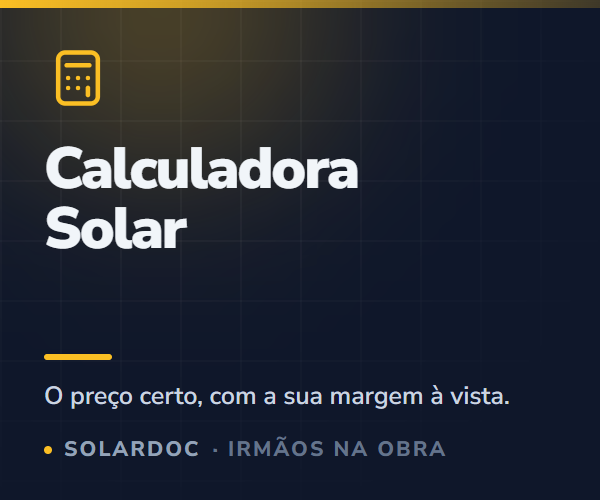
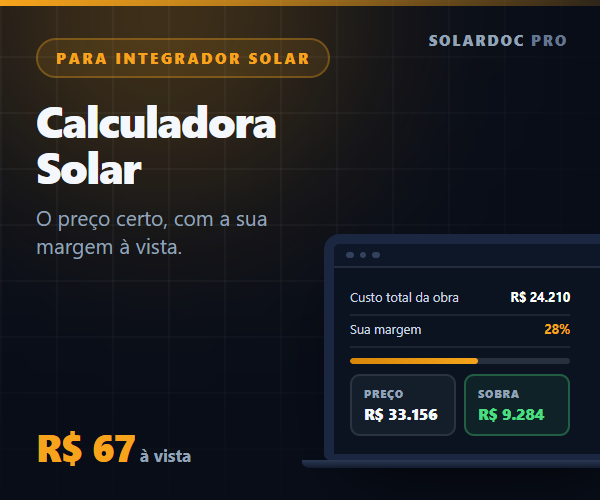
feat(lp): faixa "Funciona em" e as 3 capas refeitas na paleta da /kit
DUAS COISAS.

1) FUNCIONA EM — Android, iPhone e iPad, Windows, qualquer navegador. Entra
   logo abaixo do CTA do heroi, que e' onde mora a duvida "abre no meu
   aparelho?". Com as duas frases que sao verdade conferivel: e' web (abre no
   navegador, nada pra instalar) e e' PWA (da' pra fixar na tela inicial).

   Os simbolos sao DESENHADOS aqui, em SVG monocromatico. Nao usei o logo
   oficial da Apple, do Google nem da Microsoft: marca de terceiro em pagina de
   venda cria problema de uso de marca sem necessidade nenhuma, e uma silhueta
   reconhecivel responde a mesma pergunta.

2) AS 3 CAPAS 300x250, refeitas. As antigas estavam na paleta do APP (#0F172A,
   laranja #F26513, fonte Nunito) e as LPs agora falam a lingua da /kit
   (#080d18, ambar #f7a41c, fonte de sistema): a capa que a pessoa via no
   checkout batia diferente da pagina de onde ela veio. Agora tem o notebook
   com a tela do produto dentro, o preco em ambar e o mesmo brilho do heroi.

   Gerador em scripts/build-capas.js, do lado do das LPs.

TRES DEFEITOS CORRIGIDOS OLHANDO A IMAGEM PRONTA:
 · o notebook sangrava 24px e o corte caia no MEIO do numero ("R$ 24.2...");
   lia como imagem quebrada, nao como recorte de proposito. Sangra 14 e a tela
   reserva a faixa cortada;
 · "SOLARDOC PRO" passava por baixo do notebook no rodape. Subiu pro alto, do
   lado oposto ao selo;
 · "R$ 44.700" quebrava em "R$" / "44.700" dentro do cartao e deixava os dois
   cartoes com alturas diferentes.
[…]

diff --git a/dashboard/scripts/build-capas.js b/dashboard/scripts/build-capas.js
@@ -1,0 +1,162 @@
+/**
+ * AS 3 CAPAS DE PRODUTO, 300x250 (o tamanho do painel da Kiwify).
+ *
+ * As primeiras usavam a paleta do APP (#0F172A, laranja #F26513) e a fonte
+ * Nunito. As LPs agora falam a lingua da /kit — #080d18 de fundo e ambar
+ * #f7a41c — entao a capa que a pessoa ve' no checkout batia diferente da
+ * pagina de onde ela veio. Refeitas na paleta certa, com o notebook e a tela
+ * do produto dentro.
+ *
+ *   node scripts/build-capas.js
+ */
+const p = require('c:/Users/55349/Desktop/CLAUDE/node_modules/puppeteer-core');
+const fs = require('fs');
+const EDGE = 'C:/Program Files (x86)/Microsoft/Edge/Application/msedge.exe';
+const OUT = 'c:/Users/55349/Desktop/CLAUDE/dashboard/public/capas';
+
+const CAPAS = [
+  {
+    arquivo: 'calculadora-solar',
+    nome: 'Calculadora<br>Solar',
+    linha: 'O preço certo, com a sua margem à vista.',
+    preco: '67',
+    tela: `
+      <div class="l"><span>Custo total da obra</span><b>R$ 24.210</b></div>
+      <div class="l"><span>Sua margem</span><b class="am">28%</b></div>
+      <div class="barra"><i style="width:58%"></i></div>
+      <div class="cards">
+        <div class="c"><span>Preço</span><b>R$ 33.156</b></div>
+        <div class="c bom"><span>Sobra</span><b>R$ 9.284</b></div>
+      </div>`,
+  },
+  {
+    arquivo: 'inventario-empresarial',
+    nome: 'Inventário<br>Empresarial',
+    linha: 'Onde está cada ferramenta — e quanto vale.',
+    preco: '67',
+    tela: `
+      <div class="l"><span>Furadeira · Veículo 1</span><b>R$ 890</b></div>
+      <div class="l"><span>Andaime 1,5 m</span><b>R$ 1.180</b></div>
+      <div class="l rui"><span>Conector MC4 · mín. 40</span><b>restam 6</b></div>
+      <div class="cards">
+        <div class="c"><span>Patrimônio</span><b>R$ 82.615</b></div>
+        <div class="c bom"><span>Locais</span><b>4</b></div>
+      </div>`,
+  },
+  {
+    arquivo: 'dimensionamento-off-grid',
+    nome: 'Dimensionamento<br>Off-Grid',
+    linha: 'O kit isolado dimensionado na hora.',
+    preco: '97',
+    tela: `
+      <div class="l"><span>Consumo por dia</span><b>8,4 kWh</b></div>
+      <div class="l"><span>Banco de baterias</span><b>19,2 kWh</b></div>
+      <div class="barra"><i style="width:88%"></i></div>
+      <div class="cards">
+        <div class="c"><span>Kit + frete</span><b>R$ 44.700</b></div>
+        <div class="c bom"><span>Sem sol</span><b>2 dias</b></div>
+      </div>`,
+  },
+];
+
+const html = (c) => `<!doctype html><html><head><meta charset="utf-8"><style>
+  *{margin:0;padding:0;box-sizing:border-box}
+  body{width:300px;height:250px;overflow:hidden;position:relative;
+       background:#080d18;color:#f4f7fb;
+       font-family:'Segoe UI',system-ui,-apple-system,Roboto,Arial,sans-serif}
+  /* o mesmo brilho ambar do heroi da /kit */
+  .brilho{position:absolute;width:340px;height:250px;left:-90px;top:-120px;border-radius:50%;
+    background:radial-gradient(circle,rgba(247,164,28,.34),transparent 68%);filter:blur(38px)}
+  .grade{position:absolute;inset:0;
+    background-image:linear-gradient(rgba(255,255,255,.035) 1px,transparent 1px),
+                     linear-gradient(90deg,rgba(255,255,255,.035) 1px,transparent 1px);
+    background-size:28px 28px;
+    -webkit-mask-image:radial-gradient(ellipse at 26% 22%,#000 24%,transparent 76%)}
+  .topo{position:absolute;top:0;left:0;right:0;height:3px;
+    background:linear-gradient(90deg,#f7a41c,rgba(247,164,28,.16))}
+  .miolo{position:relative;height:100%;padding:19px 18px 15px;display:flex;flex-direction:column}
+  .selo{display:inline-block;align-self:flex-start;font-size:7.5px;font-weight:800;
+    letter-spacing:.17em;text-transform:uppercase;color:#f7a41c;
+    background:rgba(247,164,28,.1);border:1px solid rgba(247,164,28,.3);
+    padding:4px 9px;border-radius:99px;margin-bottom:10px}
+  h1{font-size:22px;line-height:1.05;letter-spacing:-.028em;font-weight:800;margin-bottom:7px;max-width:62%}
+  .sub{font-size:10.5px;line-height:1.35;color:#93a3b8;max-width:48%}
+  /* notebook, encostado na quina de baixo */
+  /* Sangra so' 14px, e a tela reserva 22px a' direita: com -24px o corte caia
+     no meio do numero ("R$ 24.2...") e lia como imagem quebrada, nao como
+     recorte de propósito. */
+  .note{position:absolute;right:-14px;bottom:16px;width:152px}
+  .tampa{background:#0b1320;border:5px solid #1b2740;border-bottom-width:3px;
+    border-radius:8px 8px 3px 3px;overflow:hidden;
+    box-shadow:0 18px 34px -16px rgba(0,0,0,.95)}
+  .barraTopo{display:flex;align-items:center;gap:3px;padding:4px 6px;
+    background:#0e1728;border-bottom:1px solid rgba(148,163,184,.16)}
+  .barraTopo i{width:3.5px;height:3.5px;border-radius:50%;background:#33415c;display:block}
+  .tela{padding:7px 24px 9px 8px;font-size:6.4px;line-height:1.3}
+  .l{display:flex;justify-content:space-between;gap:5px;padding:3.5px 0;
+    border-bottom:1px solid rgba(148,163,184,.12);color:#cfd9e6}
+  .l b{color:#fff;font-weight:700;white-space:nowrap}
+  .l b.am{color:#f7a41c}
+  .l.rui b{color:#ff9d8f}
+  .barra{height:3px;border-radius:99px;background:rgba(148,163,184,.2);margin:5px 0;overflow:hidden}
+  .barra i{display:block;height:100%;border-radius:99px;background:linear-gradient(90deg,#d9860a,#f7a41c)}
+  .cards{display:grid;grid-template-columns:1fr 1fr;gap:4px;margin-top:5px}
+  .c{background:rgba(148,163,184,.07);border:1px solid rgba(148,163,184,.16);
+    border-radius:5px;padding:5px 6px}
+  .c span{display:block;font-size:5.4px;font-weight:800;letter-spacing:.08em;
+    text-transform:uppercase;color:#93a3b8;margin-bottom:1.5px}
+  /* nowrap: "R$ 44.700" quebrava em "R$" / "44.700" e o cartao virava duas
+     alturas diferentes ao lado do vizinho. */
+  .c b{font-size:8px;font-weight:800;letter-spacing:-.02em;white-space:nowrap}
+  .c.bom{border-color:rgba(74,222,128,.32);background:rgba(74,222,128,.07)}
+  .c.bom b{color:#4ade80}
+  .base{height:4px;margin:0 -7%;background:linear-gradient(180deg,#2a3852,#131c2e);
+    border-radius:0 0 6px 6px}
+  /* rodape */
+  /* A marca saiu do rodape: la' ela passava por baixo do notebook. Foi pro
+     alto, do lado oposto ao selo, onde nao disputa espaco com nada. */
+  .marcaTopo{position:absolute;top:15px;right:16px;z-index:3;
+    font-size:7.5px;font-weight:800;letter-spacing:.12em;text-transform:uppercase;color:#64768f}
+  .marcaTopo b{color:#93a3b8}
+  .pe{margin-top:auto;position:relative;z-index:2}
+  .preco{font-size:19px;font-weight:800;color:#f7a41c;letter-spacing:-.03em;line-height:1}
+  .preco small{font-size:.45em;font-weight:700;color:#93a3b8;letter-spacing:0}
+  .marca{font-size:8px;font-weight:800;letter-spacing:.11em;text-transform:uppercase;color:#64768f}
+  .marca b{color:#93a3b8}
+</style></head><body>
+  <div class="brilho"></div><div class="grade"></div><div class="topo"></div>
+  <div class="note">
+    <div class="tampa">
+      <div class="barraTopo"><i></i><i></i><i></i></div>
+      <div class="tela">${c.tela}</div>
+    </div>
+    <div class="base"></div>
+  </div>
+  <span class="marcaTopo"><b>SolarDoc</b> Pro</span>
+  <div class="miolo">
+    <span class="selo">Para integrador solar</span>
+    <h1>${c.nome}</h1>
+    <p class="sub">${c.linha}</p>
+    <div class="pe">
+      <span class="preco">R$ ${c.preco}<small> à vista</small></span>
+    </div>
+  </div>
+</body></html>`;
+
+(async () => {
+  fs.mkdirSync(OUT, { recursive: true });
+  const b = await p.launch({ executablePath: EDGE, headless: 'new', args: ['--no-sandbox'] });
+  for (const c of CAPAS) {
+    for (const [suf, esc] of [['', 1], ['@2x', 2]]) {
+      const pg = await b.newPage();
+      await pg.setViewport({ width: 300, height: 250, deviceScaleFactor: esc });
+      await pg.setContent(html(c), { waitUntil: 'load' });
+      await new Promise((r) => setTimeout(r, 350));
+      const caminho = `${OUT}/${c.arquivo}${suf}.png`;
+      await pg.screenshot({ path: caminho, clip: { x: 0, y: 0, width: 300, height: 250 } });
+      console.log(`${c.arquivo}${suf}.png  ${300 * esc}x${250 * esc}  ${(fs.statSync(caminho).size / 1024).toFixed(1)} KB`);
+      await pg.close();
+    }
+  }
+  await b.close();
+})();

diff --git a/dashboard/public/dimensionamento/index.html b/dashboard/public/dimensionamento/index.html
@@ -263,6 +263,32 @@
   @media (max-width: 900px) { .fone { display: none; } }
   @media (prefers-reduced-motion: reduce) { .rolagem { animation: none !important; } }
 
+
+  /* -- FUNCIONA EM: os sistemas ------------------------
+     Responde "abre no meu aparelho?" antes de a pessoa perguntar. Silhuetas
+     DESENHADAS, nao logo oficial de terceiro: marca alheia em pagina de venda
+     cria problema de uso de marca sem necessidade, e uma silhueta reconhecivel
+     ja' responde a pergunta. */
+  .rodaEm { margin-top: 22px; }
+  .rodaEmTitulo {
+    display: block; font-size: 10px; font-weight: 800; letter-spacing: .18em;
+    text-transform: uppercase; color: #64768f; margin-bottom: 10px;
+  }
+  .rodaEmLista { list-style: none; display: flex; flex-wrap: wrap; align-items: center; gap: 9px; margin: 0 0 10px; }
+  .rodaEmLista li {
+    display: inline-flex; align-items: center; gap: 7px;
+    padding: 7px 12px 7px 10px; border-radius: 10px;
+    border: 1px solid var(--line); background: rgba(148,163,184,.06);
+    font-size: 12.5px; font-weight: 600; color: #cfd9e6;
+  }
+  .rodaEmLista svg { flex: none; color: var(--muted); }
+  .rodaEmNota { font-size: 12.5px; color: var(--muted); margin: 0; }
+  .rodaEmNota b { color: var(--text); font-weight: 700; }
+  @media (max-width: 420px) {
+    .rodaEmLista { gap: 7px; }
+    .rodaEmLista li { padding: 6px 10px 6px 8px; font-size: 11.5px; }
+  }
+
   .faixa { border-top: 1px solid var(--line); border-bottom: 1px solid var(--line); background: var(--bg2); }
   .faixaGrid { display: grid; grid-template-columns: repeat(5, 1fr); gap: 6px; padding: 26px 0; text-align: center; }
   .faixaGrid b { display: block; font-size: clamp(21px, 3vw, 28px); color: var(--amber); font-weight: 800; letter-spacing: -.02em; }
@@ -657,6 +683,20 @@
       </ul>
       <a href="https://pay.kiwify.com.br/Je9pKBV" class="cta" data-cta="hero">Quero a ferramenta por R$ 97 →</a>
       <span class="ctaNota">Dimensionar é de graça · os R$ 97 voltam como abatimento se pedir o kit</span>
+
+      <div class="rodaEm">
+        <span class="rodaEmTitulo">Funciona em</span>
+        <ul class="rodaEmLista">
+          <li><svg width="15" height="15" viewBox="0 0 24 24" fill="currentColor" aria-hidden="true"><path d="M6.4 10.2h11.2v6.6a1.6 1.6 0 0 1-1.6 1.6H8a1.6 1.6 0 0 1-1.6-1.6v-6.6Z"/><rect x="3.1" y="10.2" width="2.4" height="6" rx="1.2"/><rect x="18.5" y="10.2" width="2.4" height="6" rx="1.2"/><rect x="8.9" y="18.4" width="2.3" height="4.2" rx="1.15"/><rect x="12.8" y="18.4" width="2.3" height="4.2" rx="1.15"/><path d="M6.6 9.2a5.4 5.4 0 0 1 10.8 0H6.6Z"/><path d="M8.2 4.1 7.1 2.3M15.8 4.1l1.1-1.8" stroke="currentColor" stroke-width="1.1" stroke-linecap="round" fill="none"/><circle cx="9.6" cy="6.6" r=".72" fill="#0a0f1a"/><circle cx="14.4" cy="6.6" r=".72" fill="#0a0f1a"/></svg>Android</li>
+          <li><svg width="15" height="15" viewBox="0 0 24 24" fill="currentColor" aria-hidden="true"><path d="M16.9 12.6c0-2.4 2-3.6 2.1-3.7-1.1-1.7-2.9-1.9-3.5-1.9-1.5-.15-2.9.88-3.65.88-.76 0-1.92-.86-3.16-.84-1.63.03-3.13.95-3.96 2.4-1.69 2.93-.43 7.27 1.21 9.65.8 1.16 1.76 2.47 3.02 2.42 1.21-.05 1.67-.78 3.14-.78 1.46 0 1.88.78 3.16.76 1.31-.02 2.14-1.19 2.94-2.36.92-1.35 1.3-2.65 1.32-2.72-.03-.01-2.54-.98-2.57-3.86Z"/><path d="M14.5 5.6c.67-.81 1.12-1.94.99-3.06-.96.04-2.12.64-2.81 1.45-.62.72-1.16 1.87-1.02 2.97 1.07.08 2.17-.55 2.84-1.36Z"/></svg>iPhone e iPad</li>
+          <li><svg width="15" height="15" viewBox="0 0 24 24" fill="currentColor" aria-hidden="true"><path d="M3 5.6l7.6-1.05v7.1H3V5.6Z"/><path d="M11.6 4.4 21 3.1v8.55h-9.4V4.4Z"/><path d="M3 12.65h7.6v7.1L3 18.7v-6.05Z"/><path d="M11.6 12.65H21v8.55l-9.4-1.3v-7.25Z"/></svg>Windows</li>
+          <li><svg width="15" height="15" viewBox="0 0 24 24" fill="currentColor" aria-hidden="true"><circle cx="12" cy="12" r="9.1" fill="none" stroke="currentColor" stroke-width="1.7"/><ellipse cx="12" cy="12" rx="4" ry="9.1" fill="none" stroke="currentColor" stroke-width="1.5"/><path d="M3.3 9.2h17.4M3.3 14.8h17.4" fill="none" stroke="currentColor" stroke-width="1.5"/></svg>Qualquer navegador</li>
+        </ul>
+        <p class="rodaEmNota">
+          Abre no navegador &mdash; <b>nada pra instalar</b>. Se quiser, d&aacute; pra fixar na tela
+          inicial do celular e usar como aplicativo.
+        </p>
+      </div>
     </div>
 
     <div class="heroArte aparelhos">

diff --git a/dashboard/public/calculadora/index.html b/dashboard/public/calculadora/index.html
@@ -263,6 +263,32 @@
   @media (max-width: 900px) { .fone { display: none; } }
   @media (prefers-reduced-motion: reduce) { .rolagem { animation: none !important; } }
 
+
+  /* -- FUNCIONA EM: os sistemas ------------------------
+     Responde "abre no meu aparelho?" antes de a pessoa perguntar. Silhuetas
+     DESENHADAS, nao logo oficial de terceiro: marca alheia em pagina de venda
+     cria problema de uso de marca sem necessidade, e uma silhueta reconhecivel
+     ja' responde a pergunta. */
+  .rodaEm { margin-top: 22px; }
+  .rodaEmTitulo {
+    display: block; font-size: 10px; font-weight: 800; letter-spacing: .18em;
+    text-transform: uppercase; color: #64768f; margin-bottom: 10px;
+  }
+  .rodaEmLista { list-style: none; display: flex; flex-wrap: wrap; align-items: center; gap: 9px; margin: 0 0 10px; }
+  .rodaEmLista li {
+    display: inline-flex; align-items: center; gap: 7px;
+    padding: 7px 12px 7px 10px; border-radius: 10px;
+    border: 1px solid var(--line); background: rgba(148,163,184,.06);
+    font-size: 12.5px; font-weight: 600; color: #cfd9e6;
+  }
+  .rodaEmLista svg { flex: none; color: var(--muted); }
+  .rodaEmNota { font-size: 12.5px; color: var(--muted); margin: 0; }
+  .rodaEmNota b { color: var(--text); font-weight: 700; }
+  @media (max-width: 420px) {
+    .rodaEmLista { gap: 7px; }
+    .rodaEmLista li { padding: 6px 10px 6px 8px; font-size: 11.5px; }
+  }
+
   .faixa { border-top: 1px solid var(--line); border-bottom: 1px solid var(--line); background: var(--bg2); }
   .faixaGrid { display: grid; grid-template-columns: repeat(5, 1fr); gap: 6px; padding: 26px 0; text-align: center; }
   .faixaGrid b { display: block; font-size: clamp(21px, 3vw, 28px); color: var(--amber); font-weight: 800; letter-spacing: -.02em; }
@@ -657,6 +683,20 @@
       </ul>
       <a href="https://pay.kiwify.com.br/duOCDd0" class="cta" data-cta="hero">Quero a calculadora por R$ 67 →</a>
       <span class="ctaNota">Pagamento único · Pix ou cartão · acesso em minutos</span>
+
+      <div class="rodaEm">
+        <span class="rodaEmTitulo">Funciona em</span>
+        <ul class="rodaEmLista">
+          <li><svg width="15" height="15" viewBox="0 0 24 24" fill="currentColor" aria-hidden="true"><path d="M6.4 10.2h11.2v6.6a1.6 1.6 0 0 1-1.6 1.6H8a1.6 1.6 0 0 1-1.6-1.6v-6.6Z"/><rect x="3.1" y="10.2" width="2.4" height="6" rx="1.2"/><rect x="18.5" y="10.2" width="2.4" height="6" rx="1.2"/><rect x="8.9" y="18.4" width="2.3" height="4.2" rx="1.15"/><rect x="12.8" y="18.4" width="2.3" height="4.2" rx="1.15"/><path d="M6.6 9.2a5.4 5.4 0 0 1 10.8 0H6.6Z"/><path d="M8.2 4.1 7.1 2.3M15.8 4.1l1.1-1.8" stroke="currentColor" stroke-width="1.1" stroke-linecap="round" fill="none"/><circle cx="9.6" cy="6.6" r=".72" fill="#0a0f1a"/><circle cx="14.4" cy="6.6" r=".72" fill="#0a0f1a"/></svg>Android</li>
+          <li><svg width="15" height="15" viewBox="0 0 24 24" fill="currentColor" aria-hidden="true"><path d="M16.9 12.6c0-2.4 2-3.6 2.1-3.7-1.1-1.7-2.9-1.9-3.5-1.9-1.5-.15-2.9.88-3.65.88-.76 0-1.92-.86-3.16-.84-1.63.03-3.13.95-3.96 2.4-1.69 2.93-.43 7.27 1.21 9.65.8 1.16 1.76 2.47 3.02 2.42 1.21-.05 1.67-.78 3.14-.78 1.46 0 1.88.78 3.16.76 1.31-.02 2.14-1.19 2.94-2.36.92-1.35 1.3-2.65 1.32-2.72-.03-.01-2.54-.98-2.57-3.86Z"/><path d="M14.5 5.6c.67-.81 1.12-1.94.99-3.06-.96.04-2.12.64-2.81 1.45-.62.72-1.16 1.87-1.02 2.97 1.07.08 2.17-.55 2.84-1.36Z"/></svg>iPhone e iPad</li>
+          <li><svg width="15" height="15" viewBox="0 0 24 24" fill="currentColor" aria-hidden="true"><path d="M3 5.6l7.6-1.05v7.1H3V5.6Z"/><path d="M11.6 4.4 21 3.1v8.55h-9.4V4.4Z"/><path d="M3 12.65h7.6v7.1L3 18.7v-6.05Z"/><path d="M11.6 12.65H21v8.55l-9.4-1.3v-7.25Z"/></svg>Windows</li>
+          <li><svg width="15" height="15" viewBox="0 0 24 24" fill="currentColor" aria-hidden="true"><circle cx="12" cy="12" r="9.1" fill="none" stroke="currentColor" stroke-width="1.7"/><ellipse cx="12" cy="12" rx="4" ry="9.1" fill="none" stroke="currentColor" stroke-width="1.5"/><path d="M3.3 9.2h17.4M3.3 14.8h17.4" fill="none" stroke="currentColor" stroke-width="1.5"/></svg>Qualquer navegador</li>
+        </ul>
+        <p class="rodaEmNota">
+          Abre no navegador &mdash; <b>nada pra instalar</b>. Se quiser, d&aacute; pra fixar na tela
+          inicial do celular e usar como aplicativo.
+        </p>
+      </div>
     </div>
 
     <div class="heroArte aparelhos">

diff --git a/dashboard/public/inventario-empresarial/index.html b/dashboard/public/inventario-empresarial/index.html
@@ -263,6 +263,32 @@
   @media (max-width: 900px) { .fone { display: none; } }
   @media (prefers-reduced-motion: reduce) { .rolagem { animation: none !important; } }
 
+
+  /* -- FUNCIONA EM: os sistemas ------------------------
+     Responde "abre no meu aparelho?" antes de a pessoa perguntar. Silhuetas
+     DESENHADAS, nao logo oficial de terceiro: marca alheia em pagina de venda
+     cria problema de uso de marca sem necessidade, e uma silhueta reconhecivel
+     ja' responde a pergunta. */
+  .rodaEm { margin-top: 22px; }
+  .rodaEmTitulo {
+    display: block; font-size: 10px; font-weight: 800; letter-spacing: .18em;
+    text-transform: uppercase; color: #64768f; margin-bottom: 10px;
+  }
+  .rodaEmLista { list-style: none; display: flex; flex-wrap: wrap; align-items: center; gap: 9px; margin: 0 0 10px; }
+  .rodaEmLista li {
+    display: inline-flex; align-items: center; gap: 7px;
+    padding: 7px 12px 7px 10px; border-radius: 10px;
+    border: 1px solid var(--line); background: rgba(148,163,184,.06);
+    font-size: 12.5px; font-weight: 600; color: #cfd9e6;
+  }
+  .rodaEmLista svg { flex: none; color: var(--muted); }
+  .rodaEmNota { font-size: 12.5px; color: var(--muted); margin: 0; }
+  .rodaEmNota b { color: var(--text); font-weight: 700; }
+  @media (max-width: 420px) {
+    .rodaEmLista { gap: 7px; }
+    .rodaEmLista li { padding: 6px 10px 6px 8px; font-size: 11.5px; }
+  }
+
   .faixa { border-top: 1px solid var(--line); border-bottom: 1px solid var(--line); background: var(--bg2); }
   .faixaGrid { display: grid; grid-template-columns: repeat(5, 1fr); gap: 6px; padding: 26px 0; text-align: center; }
   .faixaGrid b { display: block; font-size: clamp(21px, 3vw, 28px); color: var(--amber); font-weight: 800; letter-spacing: -.02em; }
@@ -657,6 +683,20 @@
       </ul>
       <a href="https://pay.kiwify.com.br/ABSMgCu" class="cta" data-cta="hero">Quero o inventário por R$ 67 →</a>
       <span class="ctaNota">Pagamento único · Pix ou cartão · acesso em minutos</span>
+
+      <div class="rodaEm">
+        <span class="rodaEmTitulo">Funciona em</span>
+        <ul class="rodaEmLista">
+          <li><svg width="15" height="15" viewBox="0 0 24 24" fill="currentColor" aria-hidden="true"><path d="M6.4 10.2h11.2v6.6a1.6 1.6 0 0 1-1.6 1.6H8a1.6 1.6 0 0 1-1.6-1.6v-6.6Z"/><rect x="3.1" y="10.2" width="2.4" height="6" rx="1.2"/><rect x="18.5" y="10.2" width="2.4" height="6" rx="1.2"/><rect x="8.9" y="18.4" width="2.3" height="4.2" rx="1.15"/><rect x="12.8" y="18.4" width="2.3" height="4.2" rx="1.15"/><path d="M6.6 9.2a5.4 5.4 0 0 1 10.8 0H6.6Z"/><path d="M8.2 4.1 7.1 2.3M15.8 4.1l1.1-1.8" stroke="currentColor" stroke-width="1.1" stroke-linecap="round" fill="none"/><circle cx="9.6" cy="6.6" r=".72" fill="#0a0f1a"/><circle cx="14.4" cy="6.6" r=".72" fill="#0a0f1a"/></svg>Android</li>
+          <li><svg width="15" height="15" viewBox="0 0 24 24" fill="currentColor" aria-hidden="true"><path d="M16.9 12.6c0-2.4 2-3.6 2.1-3.7-1.1-1.7-2.9-1.9-3.5-1.9-1.5-.15-2.9.88-3.65.88-.76 0-1.92-.86-3.16-.84-1.63.03-3.13.95-3.96 2.4-1.69 2.93-.43 7.27 1.21 9.65.8 1.16 1.76 2.47 3.02 2.42 1.21-.05 1.67-.78 3.14-.78 1.46 0 1.88.78 3.16.76 1.31-.02 2.14-1.19 2.94-2.36.92-1.35 1.3-2.65 1.32-2.72-.03-.01-2.54-.98-2.57-3.86Z"/><path d="M14.5 5.6c.67-.81 1.12-1.94.99-3.06-.96.04-2.12.64-2.81 1.45-.62.72-1.16 1.87-1.02 2.97 1.07.08 2.17-.55 2.84-1.36Z"/></svg>iPhone e iPad</li>
+          <li><svg width="15" height="15" viewBox="0 0 24 24" fill="currentColor" aria-hidden="true"><path d="M3 5.6l7.6-1.05v7.1H3V5.6Z"/><path d="M11.6 4.4 21 3.1v8.55h-9.4V4.4Z"/><path d="M3 12.65h7.6v7.1L3 18.7v-6.05Z"/><path d="M11.6 12.65H21v8.55l-9.4-1.3v-7.25Z"/></svg>Windows</li>
+          <li><svg width="15" height="15" viewBox="0 0 24 24" fill="currentColor" aria-hidden="true"><circle cx="12" cy="12" r="9.1" fill="none" stroke="currentColor" stroke-width="1.7"/><ellipse cx="12" cy="12" rx="4" ry="9.1" fill="none" stroke="currentColor" stroke-width="1.5"/><path d="M3.3 9.2h17.4M3.3 14.8h17.4" fill="none" stroke="currentColor" stroke-width="1.5"/></svg>Qualquer navegador</li>
+        </ul>
+        <p class="rodaEmNota">
+          Abre no navegador &mdash; <b>nada pra instalar</b>. Se quiser, d&aacute; pra fixar na tela
+          inicial do celular e usar como aplicativo.
+        </p>
+      </div>
     </div>
 
     <div class="heroArte aparelhos">

diff --git a/dashboard/scripts/build-lps.js b/dashboard/scripts/build-lps.js
@@ -568,6 +568,32 @@ const CSS = `
   @media (max-width: 900px) { .fone { display: none; } }
   @media (prefers-reduced-motion: reduce) { .rolagem { animation: none !important; } }
 
+
+  /* -- FUNCIONA EM: os sistemas ------------------------
+     Responde "abre no meu aparelho?" antes de a pessoa perguntar. Silhuetas
+     DESENHADAS, nao logo oficial de terceiro: marca alheia em pagina de venda
+     cria problema de uso de marca sem necessidade, e uma silhueta reconhecivel
+     ja' responde a pergunta. */
+  .rodaEm { margin-top: 22px; }
+  .rodaEmTitulo {
+    display: block; font-size: 10px; font-weight: 800; letter-spacing: .18em;
+    text-transform: uppercase; color: #64768f; margin-bottom: 10px;
+  }
+  .rodaEmLista { list-style: none; display: flex; flex-wrap: wrap; align-items: center; gap: 9px; margin: 0 0 10px; }
+  .rodaEmLista li {
+    display: inline-flex; align-items: center; gap: 7px;
+    padding: 7px 12px 7px 10px; border-radius: 10px;
+    border: 1px solid var(--line); background: rgba(148,163,184,.06);
+    font-size: 12.5px; font-weight: 600; color: #cfd9e6;
+  }
+  .rodaEmLista svg { flex: none; color: var(--muted); }
+  .rodaEmNota { font-size: 12.5px; color: var(--muted); margin: 0; }
+  .rodaEmNota b { color: var(--text); font-weight: 700; }
+  @media (max-width: 420px) {
+    .rodaEmLista { gap: 7px; }
+    .rodaEmLista li { padding: 6px 10px 6px 8px; font-size: 11.5px; }
+  }
+
   .faixa { border-top: 1px solid var(--line); border-bottom: 1px solid var(--line); background: var(--bg2); }
   .faixaGrid { display: grid; grid-template-columns: repeat(5, 1fr); gap: 6px; padding: 26px 0; text-align: center; }
   .faixaGrid b { display: block; font-size: clamp(21px, 3vw, 28px); color: var(--amber); font-weight: 800; letter-spacing: -.02em; }
@@ -1006,6 +1032,20 @@ ${d.bullets.map((b) => `        <li>${esc(b)}</li>`).join('\n')}
       </ul>
       ${cta('hero')}
       <span class="ctaNota">${esc(d.ctaNota)}</span>
+
+      <div class="rodaEm">
+        <span class="rodaEmTitulo">Funciona em</span>
+        <ul class="rodaEmLista">
+          <li><svg width="15" height="15" viewBox="0 0 24 24" fill="currentColor" aria-hidden="true"><path d="M6.4 10.2h11.2v6.6a1.6 1.6 0 0 1-1.6 1.6H8a1.6 1.6 0 0 1-1.6-1.6v-6.6Z"/><rect x="3.1" y="10.2" width="2.4" height="6" rx="1.2"/><rect x="18.5" y="10.2" width="2.4" height="6" rx="1.2"/><rect x="8.9" y="18.4" width="2.3" height="4.2" rx="1.15"/><rect x="12.8" y="18.4" width="2.3" height="4.2" rx="1.15"/><path d="M6.6 9.2a5.4 5.4 0 0 1 10.8 0H6.6Z"/><path d="M8.2 4.1 7.1 2.3M15.8 4.1l1.1-1.8" stroke="currentColor" stroke-width="1.1" stroke-linecap="round" fill="none"/><circle cx="9.6" cy="6.6" r=".72" fill="#0a0f1a"/><circle cx="14.4" cy="6.6" r=".72" fill="#0a0f1a"/></svg>Android</li>
+          <li><svg width="15" height="15" viewBox="0 0 24 24" fill="currentColor" aria-hidden="true"><path d="M16.9 12.6c0-2.4 2-3.6 2.1-3.7-1.1-1.7-2.9-1.9-3.5-1.9-1.5-.15-2.9.88-3.65.88-.76 0-1.92-.86-3.16-.84-1.63.03-3.13.95-3.96 2.4-1.69 2.93-.43 7.27 1.21 9.65.8 1.16 1.76 2.47 3.02 2.42 1.21-.05 1.67-.78 3.14-.78 1.46 0 1.88.78 3.16.76 1.31-.02 2.14-1.19 2.94-2.36.92-1.35 1.3-2.65 1.32-2.72-.03-.01-2.54-.98-2.57-3.86Z"/><path d="M14.5 5.6c.67-.81 1.12-1.94.99-3.06-.96.04-2.12.64-2.81 1.45-.62.72-1.16 1.87-1.02 2.97 1.07.08 2.17-.55 2.84-1.36Z"/></svg>iPhone e iPad</li>
+          <li><svg width="15" height="15" viewBox="0 0 24 24" fill="currentColor" aria-hidden="true"><path d="M3 5.6l7.6-1.05v7.1H3V5.6Z"/><path d="M11.6 4.4 21 3.1v8.55h-9.4V4.4Z"/><path d="M3 12.65h7.6v7.1L3 18.7v-6.05Z"/><path d="M11.6 12.65H21v8.55l-9.4-1.3v-7.25Z"/></svg>Windows</li>
+          <li><svg width="15" height="15" viewBox="0 0 24 24" fill="currentColor" aria-hidden="true"><circle cx="12" cy="12" r="9.1" fill="none" stroke="currentColor" stroke-width="1.7"/><ellipse cx="12" cy="12" rx="4" ry="9.1" fill="none" stroke="currentColor" stroke-width="1.5"/><path d="M3.3 9.2h17.4M3.3 14.8h17.4" fill="none" stroke="currentColor" stroke-width="1.5"/></svg>Qualquer navegador</li>
+        </ul>
+        <p class="rodaEmNota">
+          Abre no navegador &mdash; <b>nada pra instalar</b>. Se quiser, d&aacute; pra fixar na tela
+          inicial do celular e usar como aplicativo.
+        </p>
+      </div>
     </div>
 
     <div class="heroArte aparelhos">
